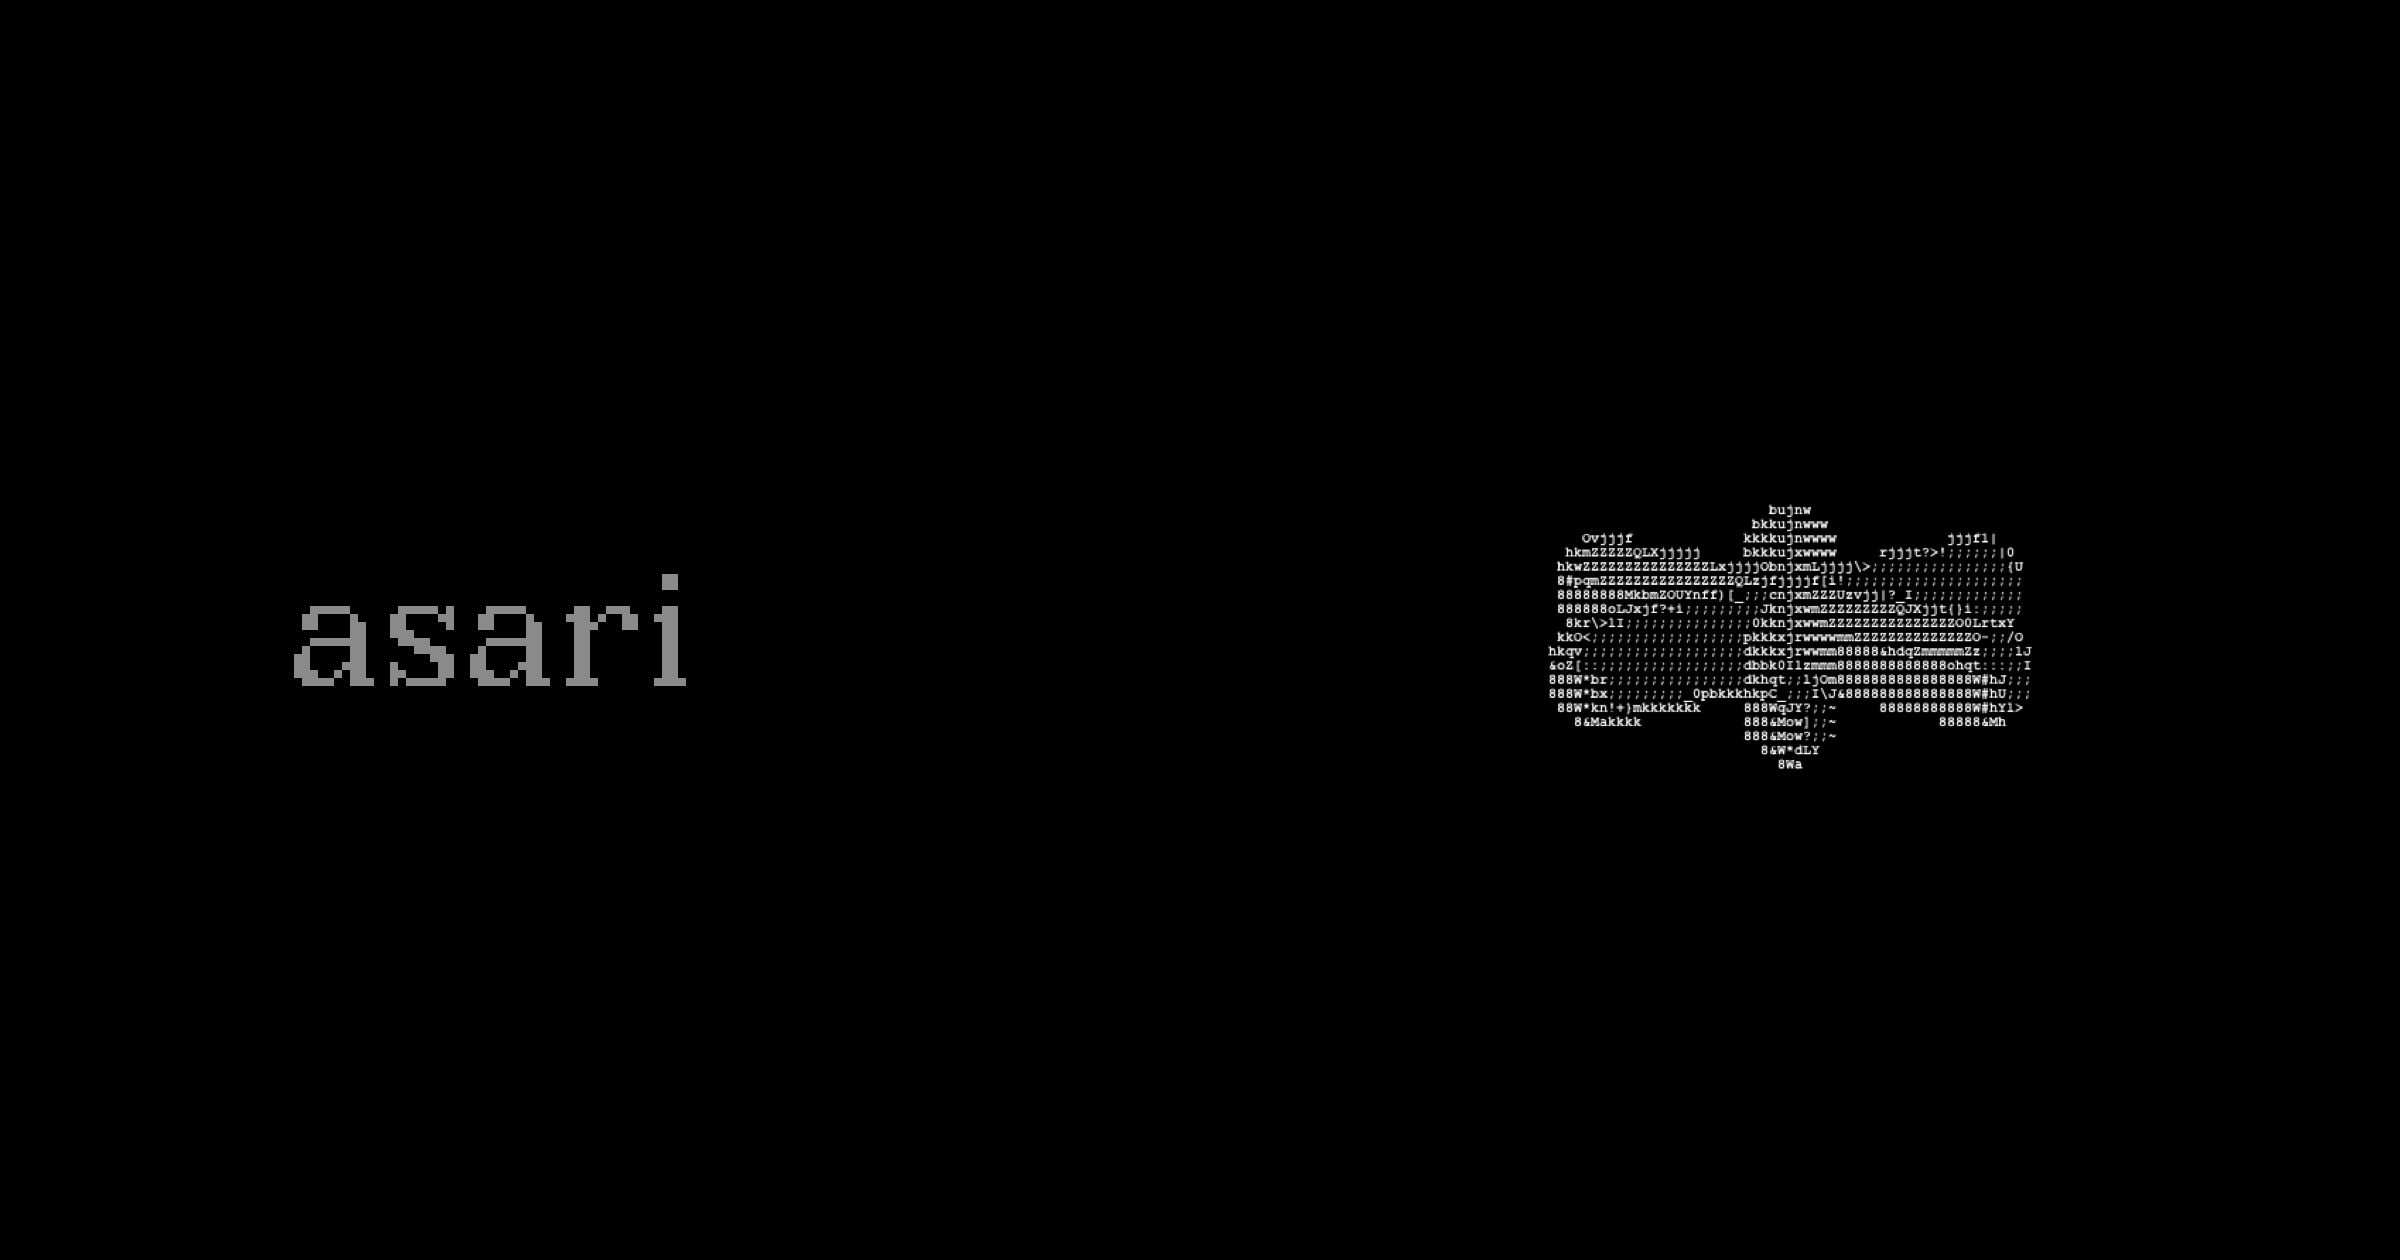
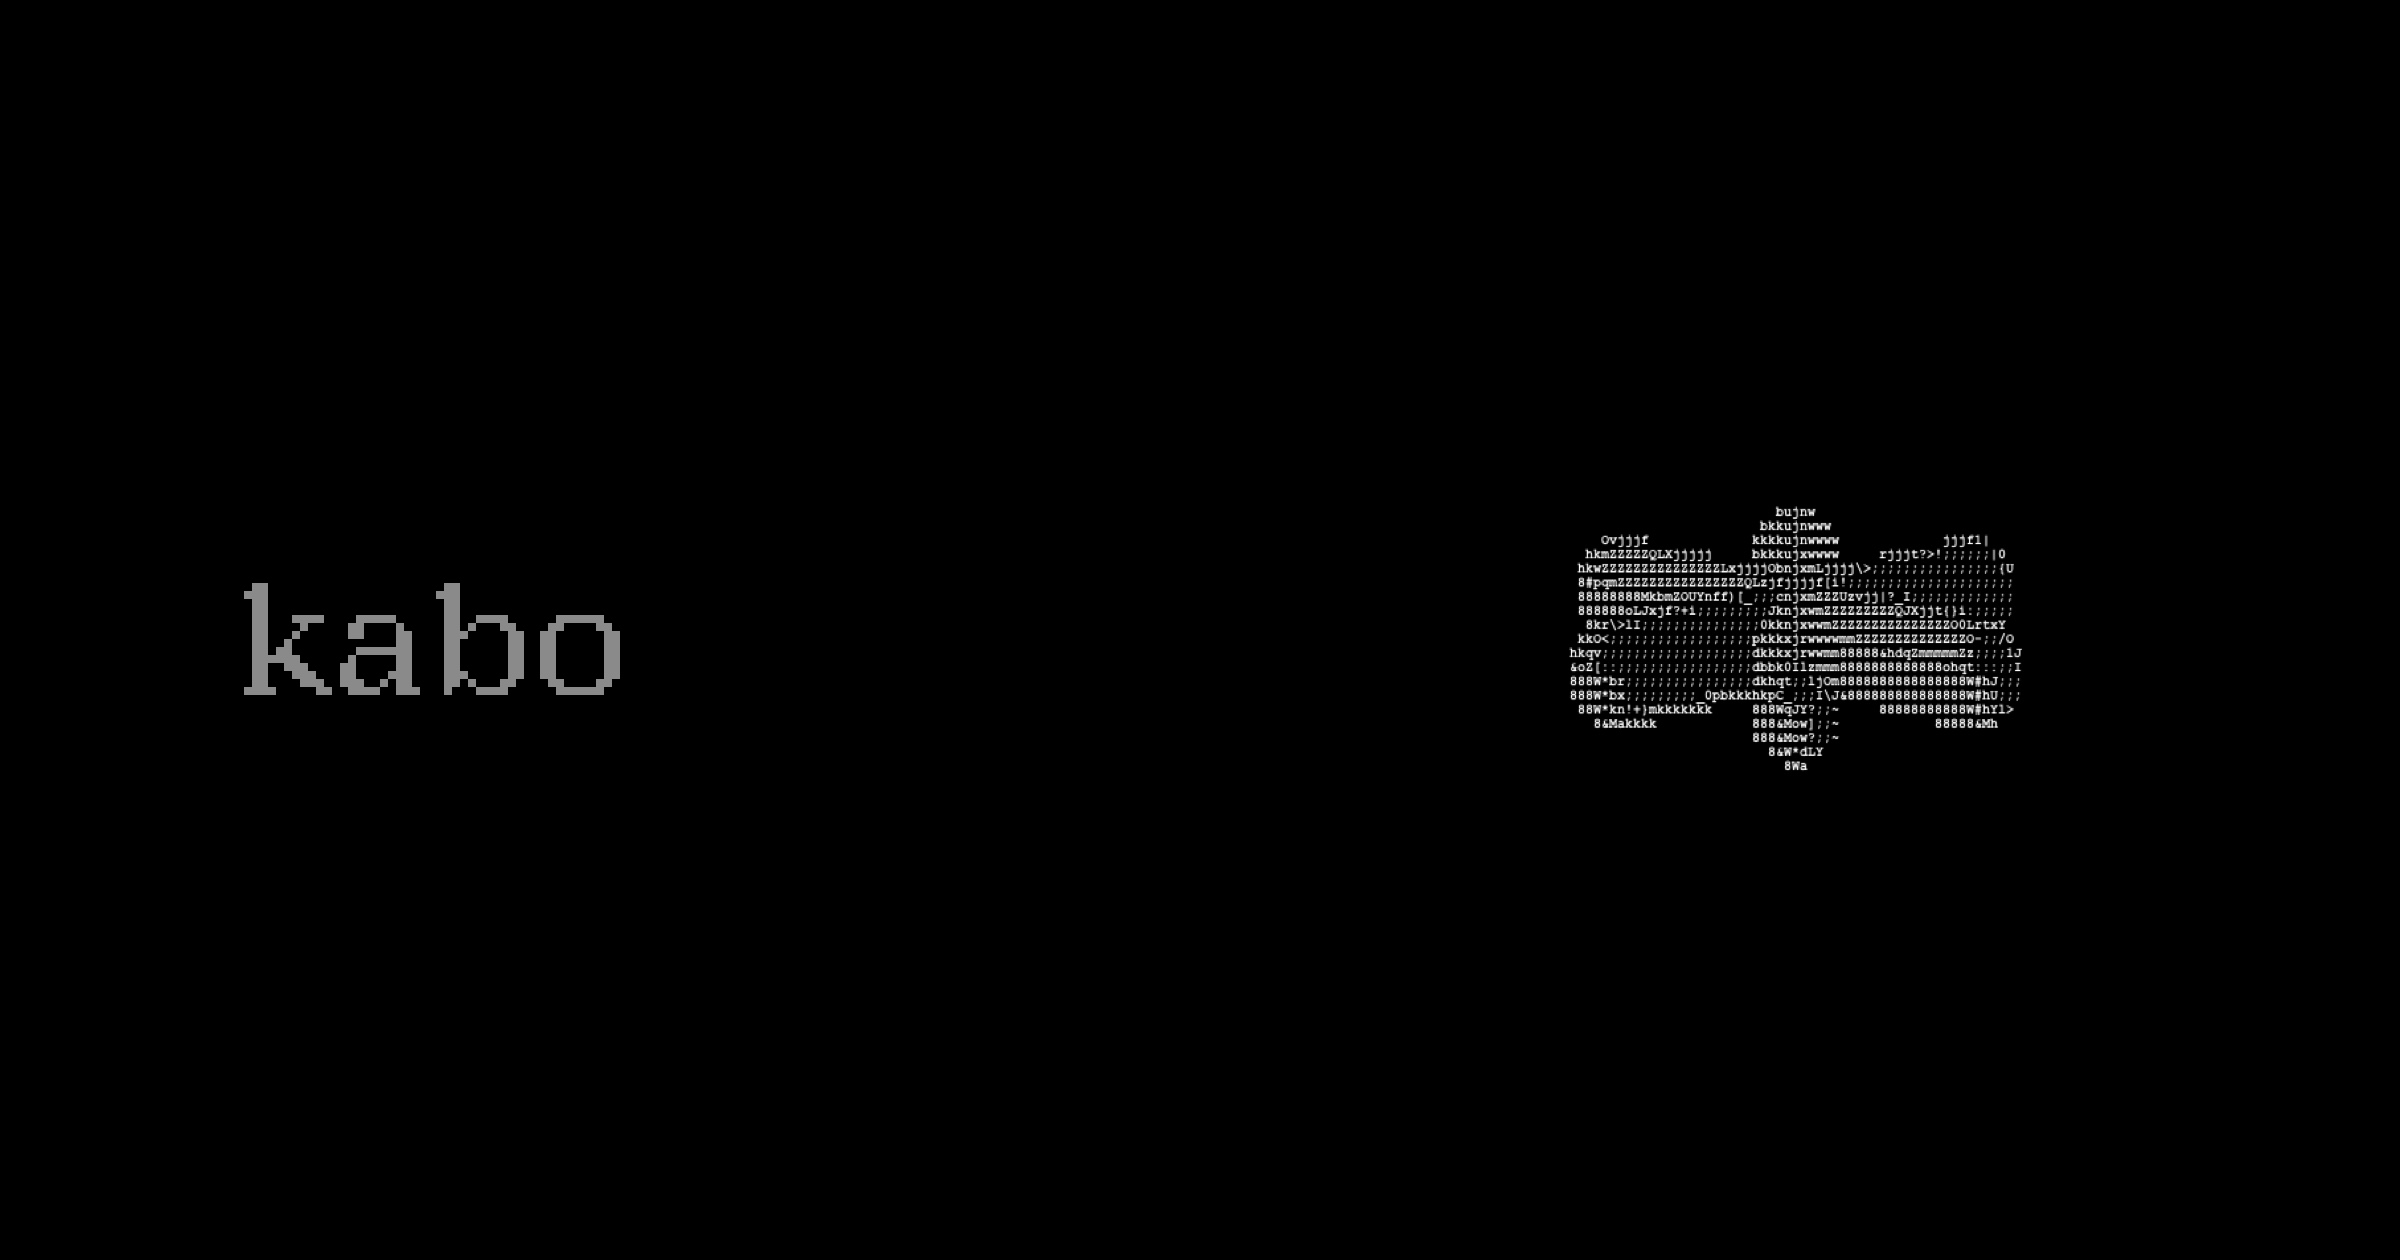
name change

Changed region(s): [[0.625, 0.4024, 0.8438, 0.619], [0.0938, 0.4643, 0.2812, 0.5571]]

diff --git a/src/app/layout.tsx b/src/app/layout.tsx
@@ -5,10 +5,10 @@ import "./globals.css";
 const inter = Inter({ subsets: ["latin"], variable: "--font-inter" });
 
 export const metadata: Metadata = {
-  title: "Asari",
+  title: "Kabo",
   description: "A spatial interface for wandering through connected ideas.",
   openGraph: {
-    title: "Asari",
+    title: "Kabo",
     description: "A spatial interface for wandering through connected ideas.",
     images: [
       {
